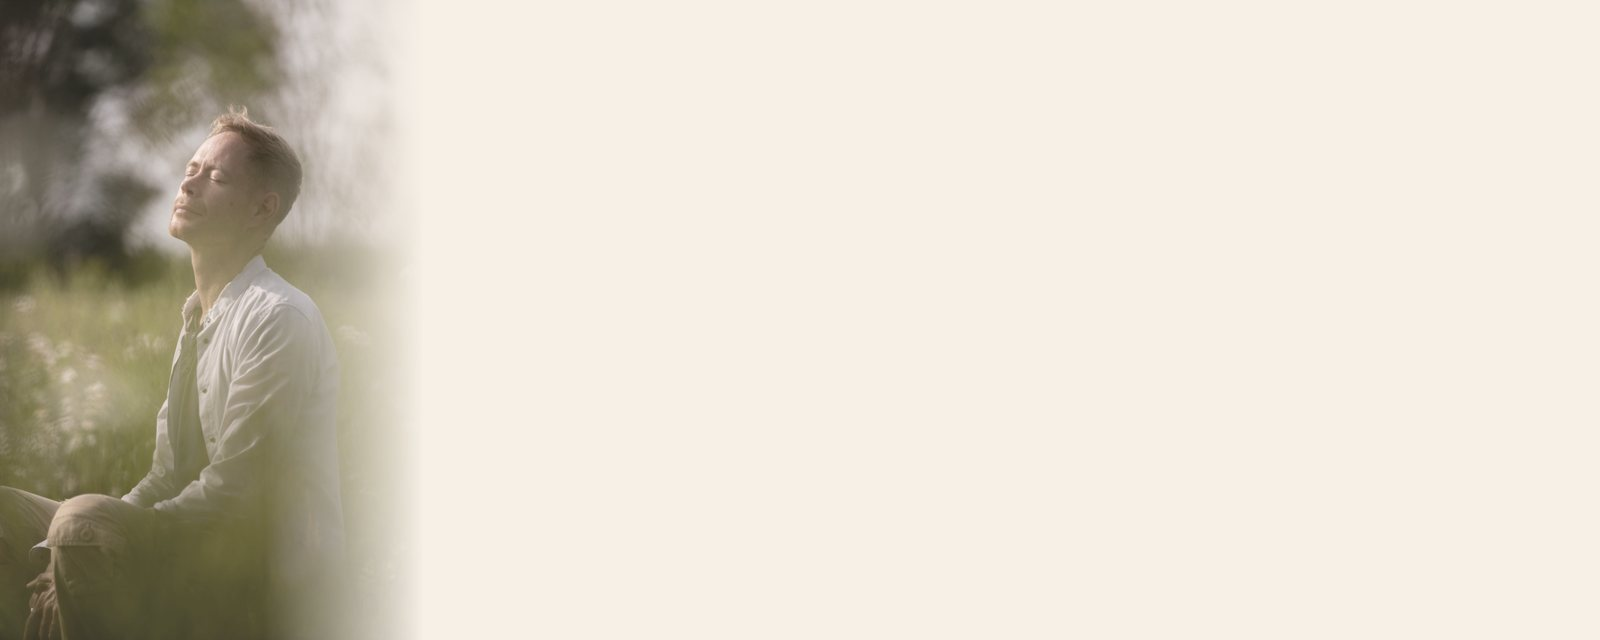
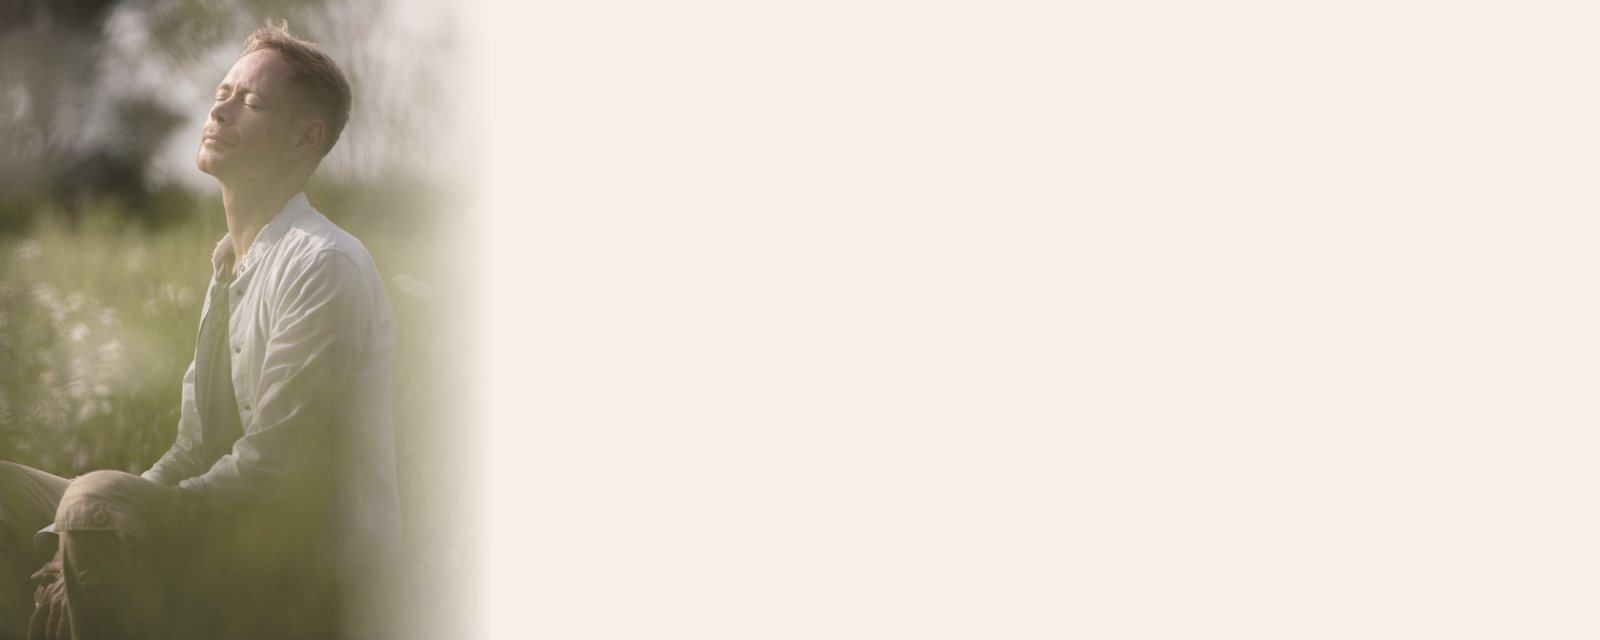
Leonova glava vise u kadru (v=142)

Changed region(s): [[0.0, 0.0, 0.3125, 1.0]]

diff --git a/style.css b/style.css
@@ -642,4 +642,4 @@ img.t-avatar{object-fit:cover;display:block;}
 .quote-band.qb-om{background-image:url('img/zavrsna-om.jpg?2');background-position:left top;}
 .quote-band blockquote{font-family:'Lora',Georgia,serif;font-size:clamp(20px,2.6vw,28px);color:var(--dark);max-width:820px;margin:0 auto;line-height:1.6;position:relative;}
 
-.quote-band.qb-kv{background-image:url('img/kvaliteta.jpg');background-position:left top;padding:96px 24px;}
+.quote-band.qb-kv{background-image:url('img/kvaliteta.jpg?2');background-position:left top;padding:96px 24px;}

diff --git a/blog.html b/blog.html
@@ -7,7 +7,7 @@
 <link rel="preconnect" href="https://fonts.googleapis.com">
 <link rel="preconnect" href="https://fonts.gstatic.com" crossorigin>
 <link href="https://fonts.googleapis.com/css2?family=Lora:ital,wght@0,400;0,500;0,600;0,700;1,400&family=Open+Sans:wght@300;400;500;600;700&display=swap" rel="stylesheet">
-<link rel="stylesheet" href="style.css?v=141">
+<link rel="stylesheet" href="style.css?v=142">
 </head>
 <body class="fw">
 

diff --git a/faq.html b/faq.html
@@ -7,7 +7,7 @@
 <link rel="preconnect" href="https://fonts.googleapis.com">
 <link rel="preconnect" href="https://fonts.gstatic.com" crossorigin>
 <link href="https://fonts.googleapis.com/css2?family=Lora:ital,wght@0,400;0,500;0,600;0,700;1,400&family=Open+Sans:wght@300;400;500;600;700&display=swap" rel="stylesheet">
-<link rel="stylesheet" href="style.css?v=141">
+<link rel="stylesheet" href="style.css?v=142">
 </head>
 <body class="fw">
 

diff --git a/index.html b/index.html
@@ -7,7 +7,7 @@
 <link rel="preconnect" href="https://fonts.googleapis.com">
 <link rel="preconnect" href="https://fonts.gstatic.com" crossorigin>
 <link href="https://fonts.googleapis.com/css2?family=Lora:ital,wght@0,400;0,500;0,600;0,700;1,400&family=Open+Sans:wght@300;400;500;600;700&display=swap" rel="stylesheet">
-<link rel="stylesheet" href="style.css?v=141">
+<link rel="stylesheet" href="style.css?v=142">
 </head>
 <body class="fw">
 

diff --git a/kolacici.html b/kolacici.html
@@ -7,7 +7,7 @@
 <link rel="preconnect" href="https://fonts.googleapis.com">
 <link rel="preconnect" href="https://fonts.gstatic.com" crossorigin>
 <link href="https://fonts.googleapis.com/css2?family=Lora:ital,wght@0,400;0,500;0,600;0,700;1,400&family=Open+Sans:wght@300;400;500;600;700&display=swap" rel="stylesheet">
-<link rel="stylesheet" href="style.css?v=141">
+<link rel="stylesheet" href="style.css?v=142">
 </head>
 <body class="fw">
 

diff --git a/konstelacije.html b/konstelacije.html
@@ -7,7 +7,7 @@
 <link rel="preconnect" href="https://fonts.googleapis.com">
 <link rel="preconnect" href="https://fonts.gstatic.com" crossorigin>
 <link href="https://fonts.googleapis.com/css2?family=Lora:ital,wght@0,400;0,500;0,600;0,700;1,400&family=Open+Sans:wght@300;400;500;600;700&display=swap" rel="stylesheet">
-<link rel="stylesheet" href="style.css?v=141">
+<link rel="stylesheet" href="style.css?v=142">
 </head>
 <body class="fw">
 

diff --git a/kontakt.html b/kontakt.html
@@ -7,7 +7,7 @@
 <link rel="preconnect" href="https://fonts.googleapis.com">
 <link rel="preconnect" href="https://fonts.gstatic.com" crossorigin>
 <link href="https://fonts.googleapis.com/css2?family=Lora:ital,wght@0,400;0,500;0,600;0,700;1,400&family=Open+Sans:wght@300;400;500;600;700&display=swap" rel="stylesheet">
-<link rel="stylesheet" href="style.css?v=141">
+<link rel="stylesheet" href="style.css?v=142">
 </head>
 <body class="fw">
 

diff --git a/omeni.html b/omeni.html
@@ -7,7 +7,7 @@
 <link rel="preconnect" href="https://fonts.googleapis.com">
 <link rel="preconnect" href="https://fonts.gstatic.com" crossorigin>
 <link href="https://fonts.googleapis.com/css2?family=Lora:ital,wght@0,400;0,500;0,600;0,700;1,400&family=Open+Sans:wght@300;400;500;600;700&display=swap" rel="stylesheet">
-<link rel="stylesheet" href="style.css?v=141">
+<link rel="stylesheet" href="style.css?v=142">
 </head>
 <body class="fw">
 

diff --git a/portal.html b/portal.html
@@ -7,7 +7,7 @@
 <link rel="preconnect" href="https://fonts.googleapis.com">
 <link rel="preconnect" href="https://fonts.gstatic.com" crossorigin>
 <link href="https://fonts.googleapis.com/css2?family=Lora:ital,wght@0,400;0,500;0,600;0,700;1,400&family=Open+Sans:wght@300;400;500;600;700&display=swap" rel="stylesheet">
-<link rel="stylesheet" href="style.css?v=141">
+<link rel="stylesheet" href="style.css?v=142">
 </head>
 <body class="fw">
 

diff --git a/post.html b/post.html
@@ -7,7 +7,7 @@
 <link rel="preconnect" href="https://fonts.googleapis.com">
 <link rel="preconnect" href="https://fonts.gstatic.com" crossorigin>
 <link href="https://fonts.googleapis.com/css2?family=Lora:ital,wght@0,400;0,500;0,600;0,700;1,400&family=Open+Sans:wght@300;400;500;600;700&display=swap" rel="stylesheet">
-<link rel="stylesheet" href="style.css?v=141">
+<link rel="stylesheet" href="style.css?v=142">
 </head>
 <body class="fw">
 

diff --git a/privatnost.html b/privatnost.html
@@ -7,7 +7,7 @@
 <link rel="preconnect" href="https://fonts.googleapis.com">
 <link rel="preconnect" href="https://fonts.gstatic.com" crossorigin>
 <link href="https://fonts.googleapis.com/css2?family=Lora:ital,wght@0,400;0,500;0,600;0,700;1,400&family=Open+Sans:wght@300;400;500;600;700&display=swap" rel="stylesheet">
-<link rel="stylesheet" href="style.css?v=141">
+<link rel="stylesheet" href="style.css?v=142">
 </head>
 <body class="fw">
 

diff --git a/programi.html b/programi.html
@@ -7,7 +7,7 @@
 <link rel="preconnect" href="https://fonts.googleapis.com">
 <link rel="preconnect" href="https://fonts.gstatic.com" crossorigin>
 <link href="https://fonts.googleapis.com/css2?family=Lora:ital,wght@0,400;0,500;0,600;0,700;1,400&family=Open+Sans:wght@300;400;500;600;700&display=swap" rel="stylesheet">
-<link rel="stylesheet" href="style.css?v=141">
+<link rel="stylesheet" href="style.css?v=142">
 </head>
 <body class="fw">
 
